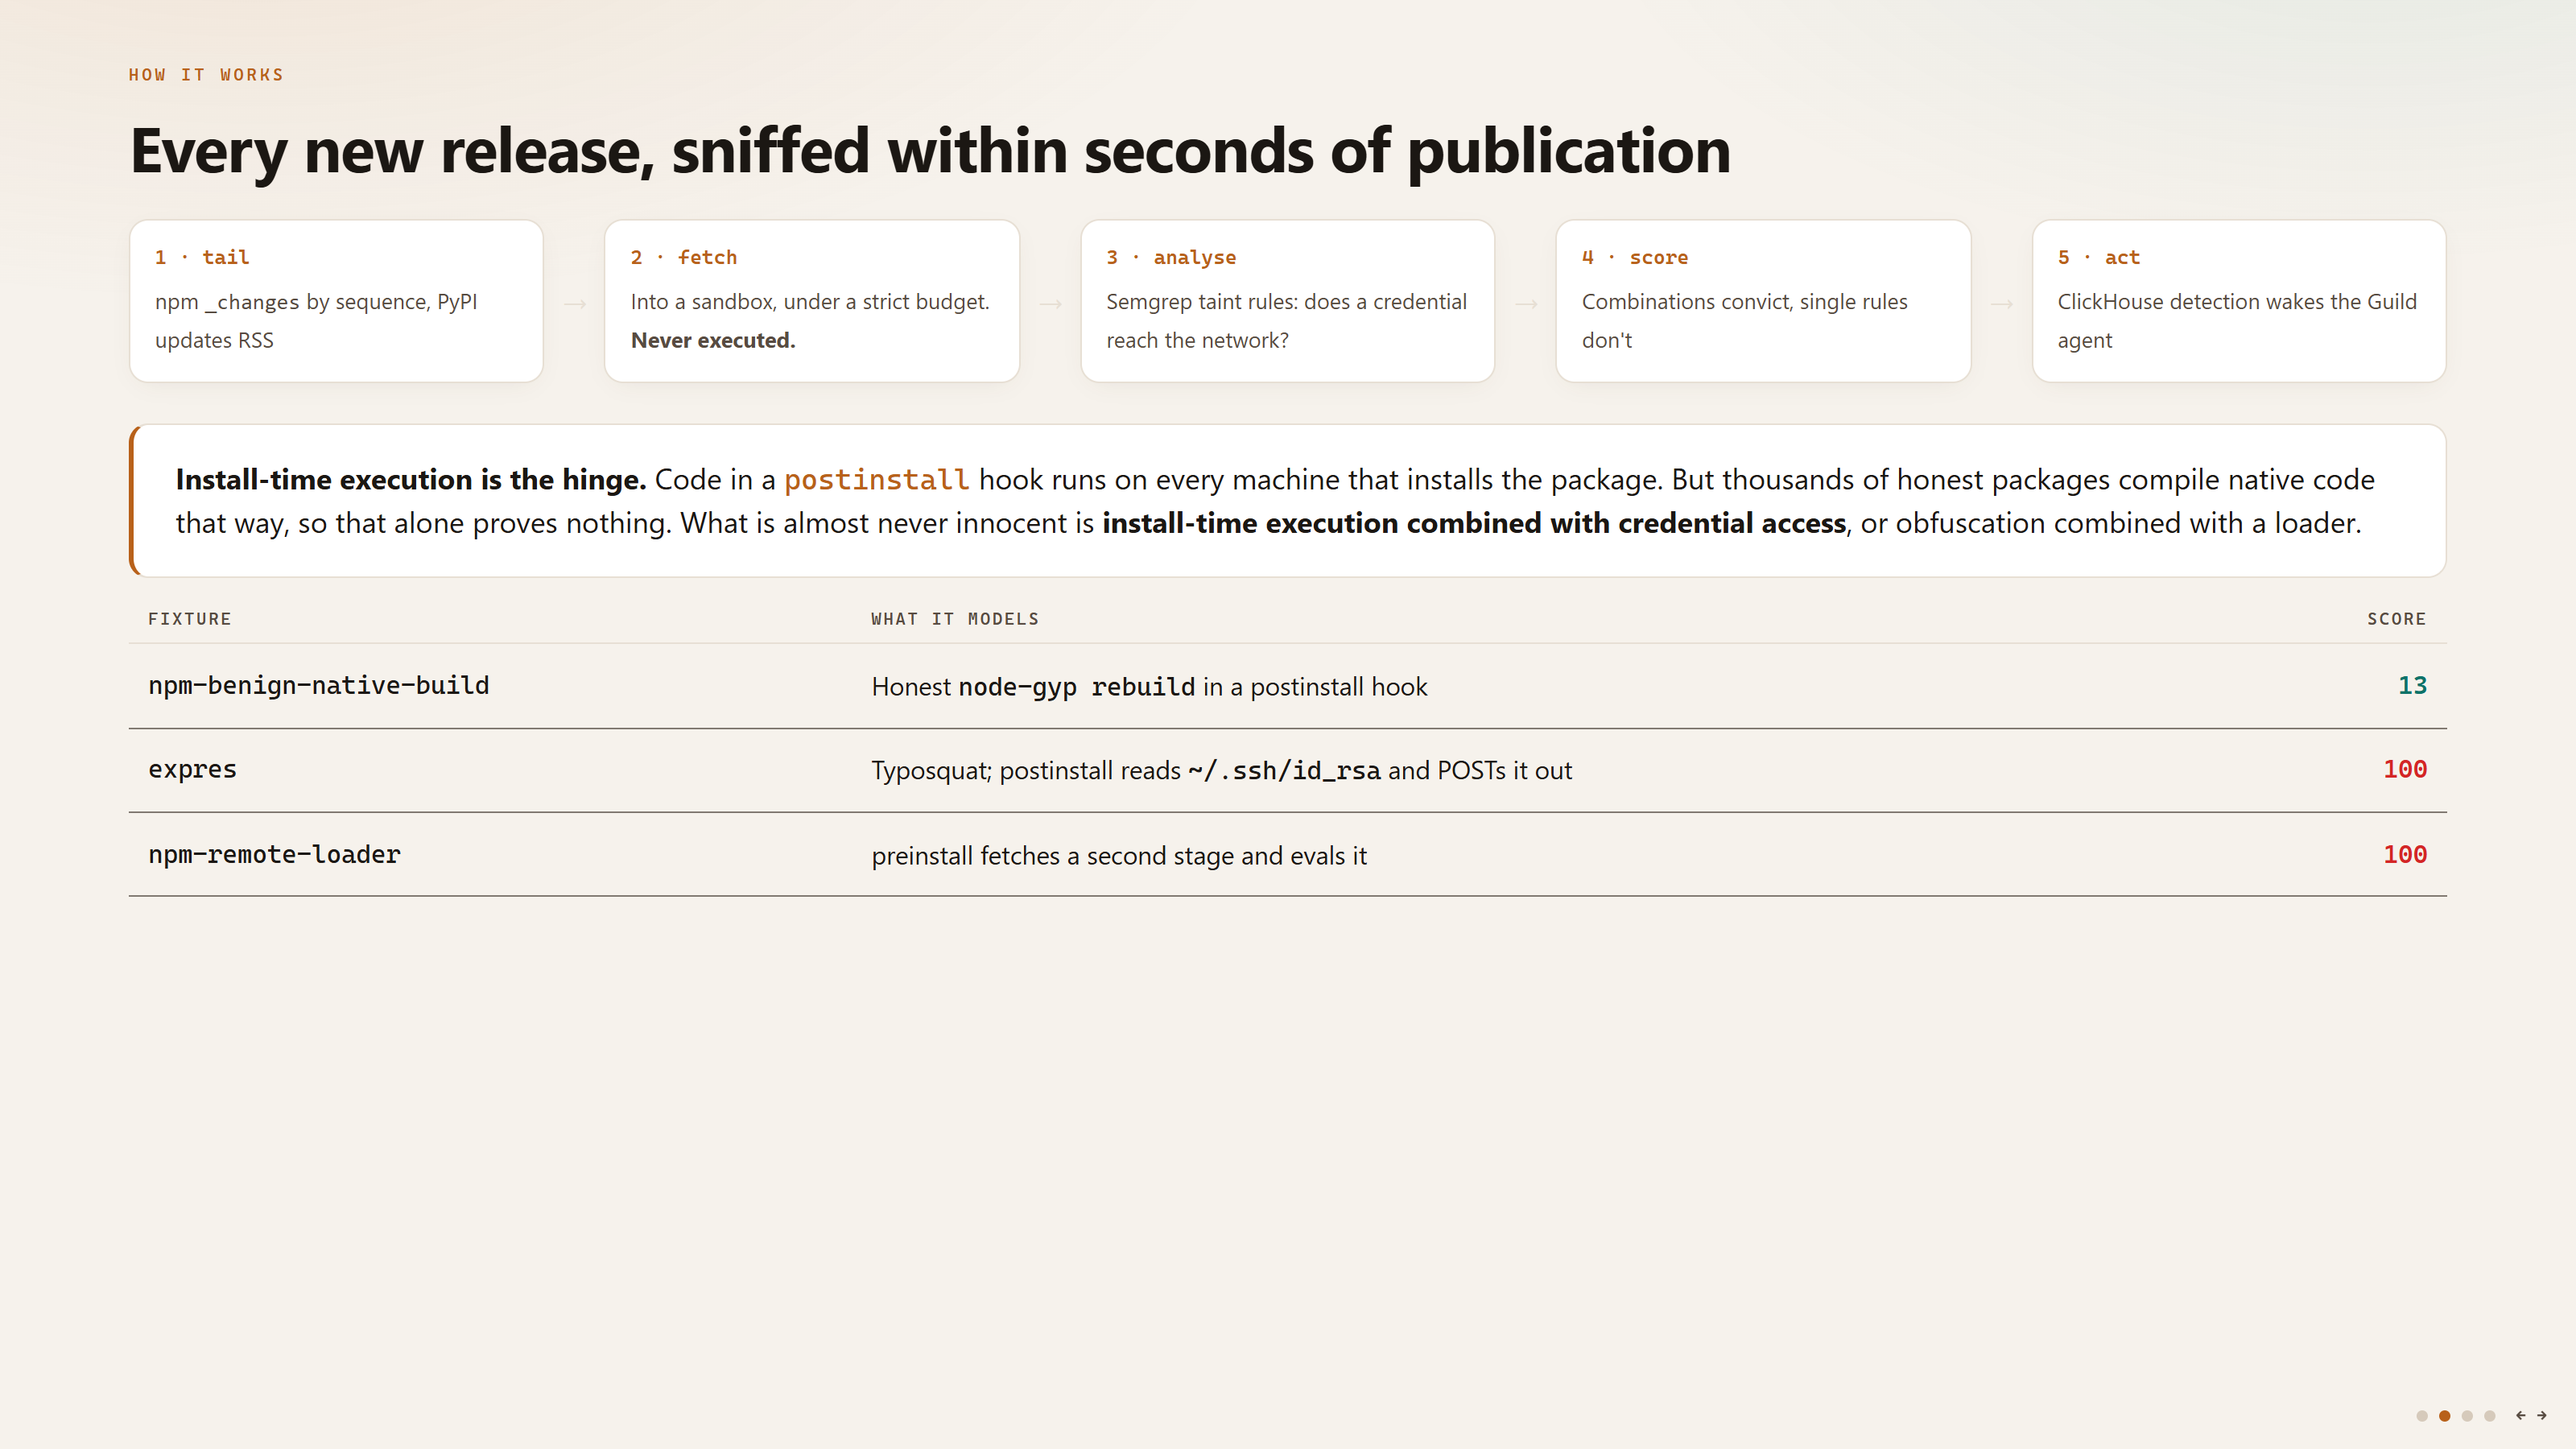
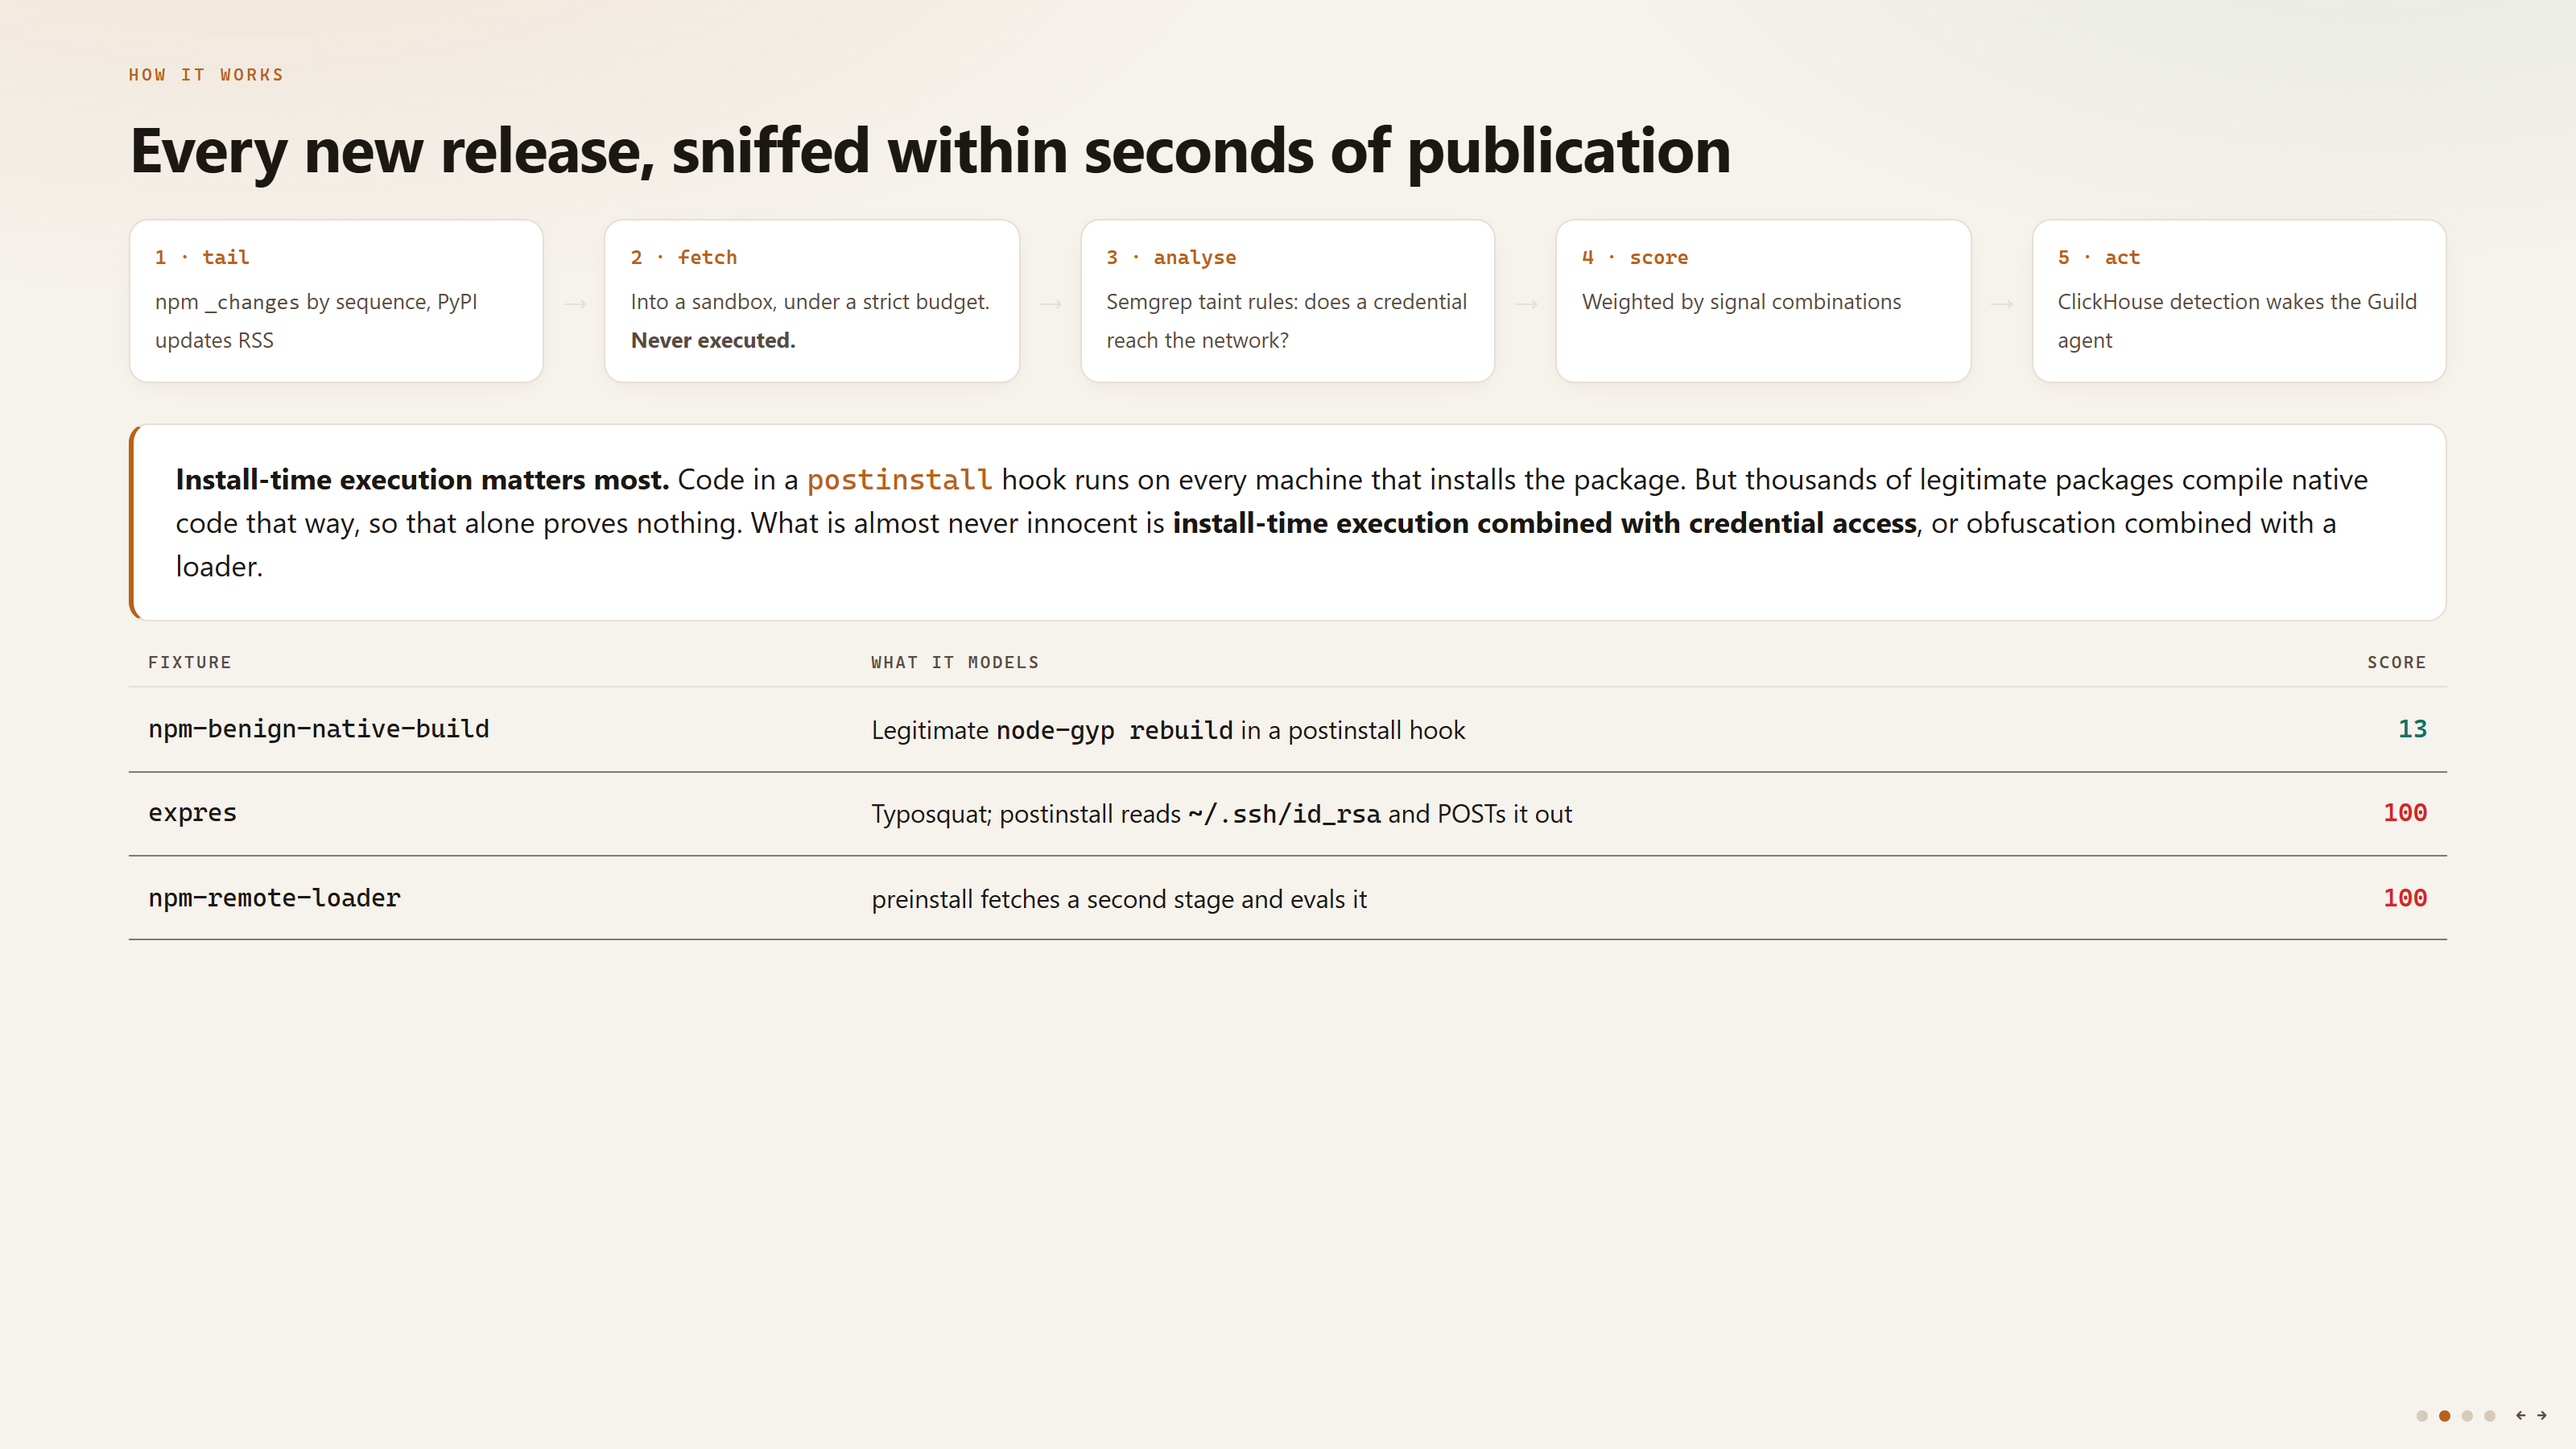
Present results as strengths across README, slides and narration
Narration: the live feed is introduced as real releases scanned within
seconds, the bark is shown directly, and the tuning beat describes the
before and after scores. README: results table reports 0 false alarms on
184 live releases; tuning section reframed; limitation paragraph removed.
Slides: slide 3 is about tuning against live traffic. Replaced remaining
'honest' wording with 'legitimate' throughout.

diff --git a/slides.html b/slides.html
@@ -145,15 +145,15 @@
       <div class="arrow">→</div>
       <div class="step"><b>3 · analyse</b><span>Semgrep taint rules: does a credential reach the network?</span></div>
       <div class="arrow">→</div>
-      <div class="step"><b>4 · score</b><span>Combinations convict, single rules don't</span></div>
+      <div class="step"><b>4 · score</b><span>Weighted by signal combinations</span></div>
       <div class="arrow">→</div>
       <div class="step"><b>5 · act</b><span>ClickHouse detection wakes the Guild agent</span></div>
     </div>
 
     <div class="thesis">
-      <strong>Install-time execution is the hinge.</strong> Code in a
+      <strong>Install-time execution matters most.</strong> Code in a
       <span class="mono tan">postinstall</span> hook runs on every machine that
-      installs the package. But thousands of honest packages compile native
+      installs the package. But thousands of legitimate packages compile native
       code that way, so that alone proves nothing. What is almost never
       innocent is <strong>install-time execution combined with credential
       access</strong>, or obfuscation combined with a loader.
@@ -161,7 +161,7 @@
 
     <table>
       <tr><th>Fixture</th><th>What it models</th><th style="text-align:right">Score</th></tr>
-      <tr><td class="mono">npm-benign-native-build</td><td>Honest <span class="mono">node-gyp rebuild</span> in a postinstall hook</td><td class="num teal">13</td></tr>
+      <tr><td class="mono">npm-benign-native-build</td><td>Legitimate <span class="mono">node-gyp rebuild</span> in a postinstall hook</td><td class="num teal">13</td></tr>
       <tr><td class="mono">expres</td><td>Typosquat; postinstall reads <span class="mono">~/.ssh/id_rsa</span> and POSTs it out</td><td class="num alert">100</td></tr>
       <tr><td class="mono">npm-remote-loader</td><td>preinstall fetches a second stage and evals it</td><td class="num alert">100</td></tr>
     </table>
@@ -169,18 +169,17 @@
 
   <!-- 3 ─ the hard part -->
   <section class="slide">
-    <div class="eyebrow">The hard part</div>
-    <h2>Catching malware is easy. Not crying wolf is the work.</h2>
+    <div class="eyebrow">Precision</div>
+    <h2>Tuned against live registry traffic</h2>
     <p class="lede">
-      A scanner that flags everything gets switched off on day one. Our first
-      rules flagged <strong>almost every well-behaved API client in the
-      registry</strong>, because reading a token from the environment and
-      sending it in an <span class="mono">Authorization</span> header looks
-      identical to credential theft until you ask where it's going.
+      We ran the rules on real npm and PyPI releases and tuned them until
+      <strong>legitimate packages score clean while every malware fixture
+      still scores 100</strong>. Each pattern below now has its own negative
+      test case.
     </p>
 
     <table>
-      <tr><th>What fired</th><th>Why it was wrong</th><th>Fix</th></tr>
+      <tr><th>Pattern</th><th>Problem</th><th>Fix</th></tr>
       <tr>
         <td>Every API client</td>
         <td>Presenting your own token to its own service is correct behaviour</td>
@@ -189,7 +188,7 @@
       <tr>
         <td>A package that strips a BOM</td>
         <td>Invisible-Unicode rule matched <span class="mono">replace(/^\ufeff/,"")</span></td>
-        <td>Narrowed to bidi overrides, which have no honest use in source</td>
+        <td>Narrowed to bidi overrides, which have no legitimate use in source</td>
       </tr>
       <tr>
         <td>A Bearer-token parser</td>
@@ -203,7 +202,7 @@
       <div class="stat"><div class="v teal">100&nbsp;→&nbsp;16</div><div class="l">breakaway</div></div>
       <div class="stat"><div class="v teal">45&nbsp;→&nbsp;8</div><div class="l">cloudflare-sandbox plugin</div></div>
       <div class="stat"><div class="v alert">100&nbsp;→&nbsp;100</div><div class="l">malware fixtures</div></div>
-      <div class="stat"><div class="v teal">184&nbsp;/&nbsp;0</div><div class="l">real releases live / barks</div></div>
+      <div class="stat"><div class="v teal">0</div><div class="l">false alarms on 184 live releases</div></div>
     </div>
   </section>
 

diff --git a/web/app/guardian/page.tsx b/web/app/guardian/page.tsx
@@ -100,7 +100,7 @@ export default function GuardianPage() {
             INVISIBLE = re.compile({fixed})
           </pre>
           <ul className="mt-4 space-y-2 text-[15px] text-ink">
-            <li>Still catches real Trojan Source; still ignores honest BOM handling</li>
+            <li>Still catches real Trojan Source; still ignores BOM handling</li>
             <li>
               <span className="font-mono text-[14px]">scripts/check_invisible.py</span> sweeps every
               file

diff --git a/web/components/DetectionPanel.tsx b/web/components/DetectionPanel.tsx
@@ -109,7 +109,7 @@ export default function DetectionPanel({
           <div className="text-[17px] font-semibold text-ink">Nothing on the nose yet</div>
           <p className="mx-auto mt-1 max-w-[320px] text-[14px] leading-relaxed text-ink-2">
             Scout is working through the feed. The first flagged package opens here with the code
-            that convicted it.
+            that triggered it.
           </p>
         </div>
       </div>

diff --git a/scanner/fixtures/npm-benign-native-build/scripts/build.js b/scanner/fixtures/npm-benign-native-build/scripts/build.js
@@ -1,4 +1,4 @@
-// Beagle Brigade negative control. This is what an honest postinstall hook
+// Beagle Brigade negative control. This is what a legitimate postinstall hook
 // looks like: it compiles a native addon and touches nothing else.
 //
 // A scanner that flags this is useless, because thousands of real packages

diff --git a/scanner/beagle/score.py b/scanner/beagle/score.py
@@ -1,8 +1,8 @@
 """Turn findings and signals into a score, a verdict and a readable summary.
 
 The scoring exists because single rules are weak evidence. `child_process.exec`
-appears in thousands of honest build scripts. Credential reads appear in honest
-CLI tools. What almost never appears in an honest package is install-time
+appears in thousands of legitimate build scripts. Credential reads appear in legitimate
+CLI tools. What almost never appears in a legitimate package is install-time
 execution combined with credential access, or obfuscation combined with a
 loader. Combinations carry the weight here, not individual hits.
 """
@@ -88,7 +88,7 @@ def assess(findings: list[Finding], signals: list[Signal]) -> Verdict:
 
     score = max(0, min(100, score))
 
-    # Conviction needs dataflow, not vibes. Heuristics (encoded blobs, bidi
+    # A malicious verdict requires dataflow evidence. Heuristics (encoded blobs, bidi
     # characters, minified files) and browser-side loaders can raise a
     # package to "suspicious", but "malicious" requires either install-time
     # execution combined with exfiltration or a loader, or a credential file

diff --git a/scanner/beagle/scan.py b/scanner/beagle/scan.py
@@ -31,7 +31,7 @@ SEMGREP = shutil.which("semgrep") or shutil.which("semgrep.exe")
 #
 # Deliberately narrow. An earlier version also matched BOM (U+FEFF) and the
 # zero-width range, which flagged real packages whose crime was handling a BOM
-# correctly (`text.replace(/^\ufeff/, "")`). These overrides have no honest
+# correctly (`text.replace(/^\ufeff/, "")`). These overrides have no legitimate
 # use in source.
 INVISIBLE = re.compile(r"[\u202a-\u202e\u2066-\u2069]")
 BASE64_RUN = re.compile(r"[A-Za-z0-9+/=]{200,}")

diff --git a/README.md b/README.md
@@ -26,8 +26,7 @@ the code it downloads.
 | Metric | Value |
 |---|---|
 | Real npm and PyPI releases scanned live during the hackathon | 184 |
-| Real releases scored malicious | 0 |
-| Real releases flagged for review | 1 (oversized archive) |
+| False alarms on those live releases | 0 |
 | Malware test fixtures detected | 4 of 4 (score 100) |
 | Benign native-build fixture | score 13 (clean) |
 | npm registry events stored in ClickHouse | 9.5M |
@@ -40,7 +39,7 @@ the code it downloads.
 | Sponsor | How we used it | Result |
 |---|---|---|
 | ClickHouse | The only datastore: scan results, findings, detections and replicated npm registry history | 9.5M rows, loaded at ~49k rows/sec; full-table aggregates under 1 second, dashboard queries in single-digit milliseconds |
-| Semgrep | Detection engine (custom taint rules), and Semgrep Guardian on the AI-written code in this repo | 13/13 rule tests passing; 3 false-positive classes fixed; 12 findings in the repo fixed or triaged, including bidi characters in our own scanner |
+| Semgrep | Detection engine (custom taint rules), and Semgrep Guardian on the AI-written code in this repo | 13/13 rule tests passing; tuned on live traffic to 0 false alarms; 12 repo findings resolved, including Trojan Source characters in AI-written code |
 | Guild.ai | Hosts the triage agent that reviews each detection | Verdict, reasoning, actions and confidence written back to each detection; correctly marks false positives as likely benign |
 
 ElevenLabs (not a sponsor) was used only for the demo video narration.
@@ -121,14 +120,10 @@ combined with exfiltration or a loader, or a credential file reaching the
 network. The benign native-build fixture scores 13; the four malware fixtures
 score 100.
 
-Limitation: the open-source Semgrep engine tracks taint within a function
-only. Cross-function flows need Semgrep Pro. This case is marked
-`todoruleid` in the test suite.
+### Tuning on live traffic
 
-### False positives fixed
-
-Testing against live registry traffic surfaced three false-positive classes.
-Each now has a negative test case.
+We tuned the rules against real npm and PyPI releases. Each pattern below
+now has a negative test case.
 
 | Pattern | Problem | Fix |
 |---|---|---|

diff --git a/scanner/fixtures/README.md b/scanner/fixtures/README.md
@@ -21,8 +21,8 @@ what the demo runs against if the live feed is quiet.
 | `npm-remote-loader` | preinstall hook fetching and evaluating a second stage | malicious |
 | `npm-typosquat-expres` | name one edit from `express`, postinstall spawning a shell | malicious |
 | `pypi-setup-exfil` | `setup.py` install command class exfiltrating AWS credentials | malicious |
-| `npm-benign-native-build` | honest native build with a postinstall hook | clean |
+| `npm-benign-native-build` | legitimate native build with a postinstall hook | clean |
 
 The last one is the important one. A scanner that flags every postinstall
-hook is useless, because thousands of honest packages compile native
+hook is useless, because thousands of legitimate packages compile native
 addons at install time. It is the negative control.

diff --git a/agent/PROMPT.md b/agent/PROMPT.md
@@ -32,13 +32,13 @@ verdict could be wrong.
 
 ## How to judge
 
-Install-time execution is the hinge. Code in `preinstall`, `install` or
+Install-time execution matters most. Code in `preinstall`, `install` or
 `postinstall` hooks, or in a `setup.py` command class, runs on every developer
 machine and every CI runner that installs the package, without anyone opening
 a file. The same code sitting in a library function that a caller must
 deliberately invoke is far less serious. Weigh it accordingly.
 
-Combinations convict, single rules do not:
+Weigh combinations of signals, not single rules:
 
 - Install-time execution plus credential access is theft. Say so plainly.
 - Install-time execution plus a fetched or decoded payload is a loader, and

diff --git a/docs/semgrep-guardian-finding.md b/docs/semgrep-guardian-finding.md
@@ -81,7 +81,7 @@ Python's `re` interprets `\uXXXX` in patterns, so behaviour is unchanged, and
 we verified it after the fix:
 
 - real Trojan Source input is still caught
-- honest BOM handling (`text.replace(/^\ufeff/, "")`) is still ignored
+- BOM handling (`text.replace(/^\ufeff/, "")`) is still ignored
 - `scan.py` is now pure ASCII
 
 `scripts/check_invisible.py` sweeps every tracked text file for these
